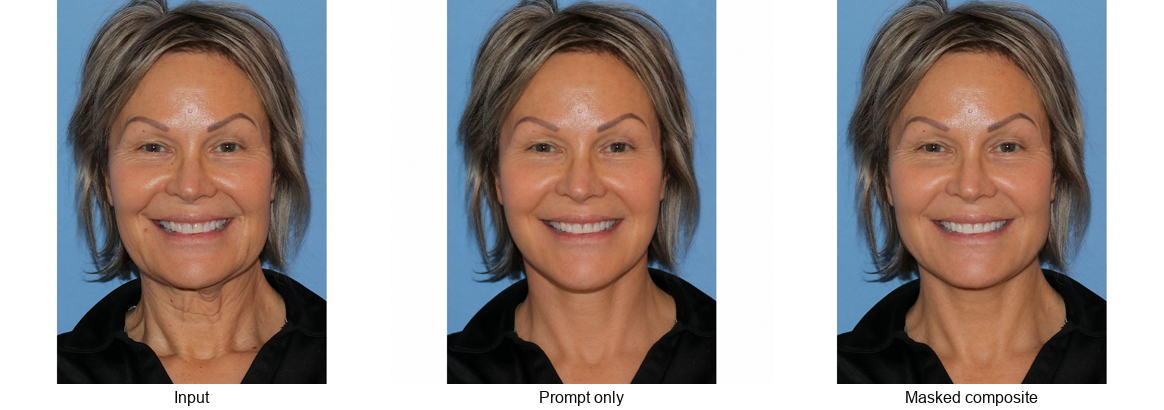
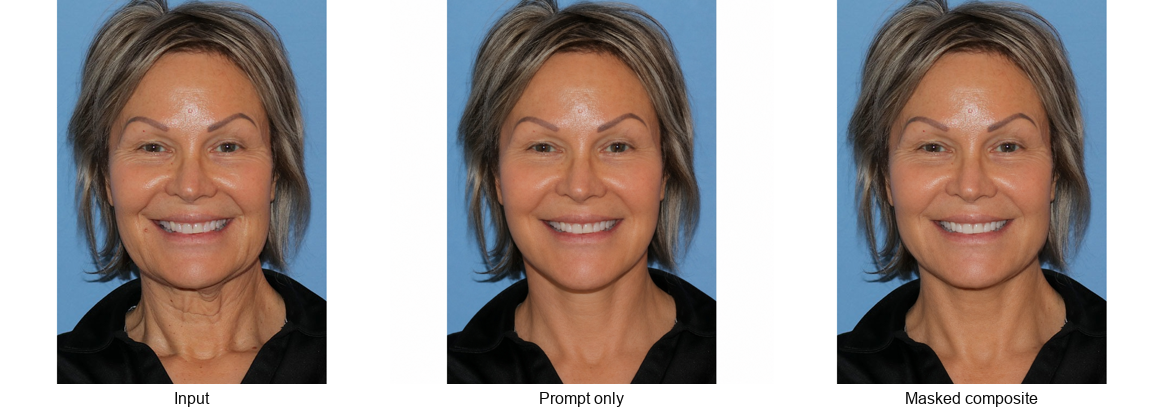
Add six-editor comparison strip, refresh qualitative figures from matrix runs
- model_strip.png: one face composited by all six editors (aggressiveness
  spectrum visible); grid rows now all matrix faces with complete panels
- caption notes the prompt-only BEFORE->AFTER watermark rewrite and the
  inpaint identity damage; larger strip labels; fix ethics dash spacing

diff --git a/scripts/make_qualitative.py b/scripts/make_qualitative.py
@@ -10,11 +10,10 @@ from pathlib import Path
 import pandas as pd
 from PIL import Image, ImageDraw, ImageFont
 
-from config import DATA_DIR, FIGURES_DIR, POC_ROOT
-from figure_stems import GRID_FACES, TEASER_FACE
+from config import DATA_DIR, FIGURES_DIR, MODEL_NAMES, POC_ROOT
+from figure_stems import GRID_FACES, STRIP_FACE, STRIP_MODELS, TEASER_FACE
 
 PANEL = 384      # px per face panel
-LABEL_H = 26
 RUNS = POC_ROOT / "outputs" / "runs"
 
 
@@ -35,18 +34,19 @@ def input_for(face_id: str, procedure: str) -> Path:
     return POC_ROOT / "data" / "faces" / procedure / f"{face_id}.png"
 
 
-def panel(img_path: Path, label: str) -> Image.Image:
+def panel(img_path: Path, label: str, label_size: int = 16) -> Image.Image:
     img = Image.open(img_path).convert("RGB")
     img.thumbnail((PANEL, PANEL))
-    canvas = Image.new("RGB", (PANEL, PANEL + LABEL_H), "white")
+    label_h = label_size + 12
+    canvas = Image.new("RGB", (PANEL, PANEL + label_h), "white")
     canvas.paste(img, ((PANEL - img.width) // 2, 0))
     draw = ImageDraw.Draw(canvas)
     try:
-        font = ImageFont.truetype("arial.ttf", 16)
+        font = ImageFont.truetype("arial.ttf", label_size)
     except OSError:
         font = ImageFont.load_default()
     w = draw.textlength(label, font=font)
-    draw.text(((PANEL - w) // 2, PANEL + 4), label, fill="#0b0b0b", font=font)
+    draw.text(((PANEL - w) // 2, PANEL + 5), label, fill="#0b0b0b", font=font)
     return canvas
 
 
@@ -93,6 +93,8 @@ def make_grid(df: pd.DataFrame) -> bool:
                 panels.append(panel(image_for(r), control.replace("_", " ").capitalize()))
         if len(panels) > 1:
             rows.append(hstack(panels))
+        else:
+            print(f"grid: {s.face_id}/{s.procedure} has no rows in the canonical set - skipped")
     if not rows:
         return False
     w = max(r.width for r in rows)
@@ -106,10 +108,30 @@ def make_grid(df: pd.DataFrame) -> bool:
     return True
 
 
+def make_model_strip(df: pd.DataFrame) -> bool:
+    """The same face composited by every editor: the model-comparison figure."""
+    s = STRIP_FACE
+    if not s.verified:
+        print(f"strip: {s.face_id} not license-verified - skipped")
+        return False
+    panels = [panel(input_for(s.face_id, s.procedure), "Input", label_size=36)]
+    for model in STRIP_MODELS:
+        g = df[(df.face_id == s.face_id) & (df.procedure == s.procedure)
+               & (df.control == "masked_composite") & (df.model == model)]
+        if g.empty or not image_for(g.iloc[0]).exists():
+            print(f"strip: no composited {model} edit for {s.face_id} - skipped")
+            continue
+        panels.append(panel(image_for(g.iloc[0]), MODEL_NAMES.get(model, model), label_size=36))
+    if len(panels) < 3:
+        return False
+    hstack(panels).save(FIGURES_DIR / "model_strip.png")
+    return True
+
+
 def main() -> None:
     FIGURES_DIR.mkdir(parents=True, exist_ok=True)
     df = load_rows()
-    made = [make_teaser(df), make_grid(df)]
+    made = [make_teaser(df), make_grid(df), make_model_strip(df)]
     if not any(made):
         print("no qualitative figures generated - real-face gate is closed "
               "(see docs/real_face_checklist.md)")

diff --git a/sections/06_results.tex b/sections/06_results.tex
@@ -53,12 +53,25 @@ and pays for them in identity (prompt-only median
 at which the output is effectively a different person). The Nano Banana models
 occupy the opposite end, holding identity at \MedIdentityNanoBanana{} while
 making the gentlest edits (median $\Delta E_{\mathrm{tgt}}$ \MedTgtNanoBanana).
-GPT Image~2 and Seedream~5.0 fall between. Following
-Sec.~\ref{sec:protocol}, the model-level number is the prompt-only median of
-\MedIdentityPromptOnly{}; composited edits score \MedIdentityComposite{}, but
-part of that is copied pixels, so we do not read the difference as a model
-improvement. Fig.~\ref{fig:boxes} breaks identity out by model; the ordering
-tracks each model's editing aggressiveness rather than output quality.
+GPT Image~2 and Seedream~5.0 fall between. The spectrum is visible to the naked
+eye in Fig.~\ref{fig:modelstrip}, which composites the same face through all six
+editors. Following Sec.~\ref{sec:protocol}, the model-level number is the
+prompt-only median of \MedIdentityPromptOnly{}; composited edits score
+\MedIdentityComposite{}, but part of that is copied pixels, so we do not read
+the difference as a model improvement. Fig.~\ref{fig:boxes} breaks identity out
+by model; the ordering tracks each model's editing aggressiveness rather than
+output quality.
+
+\begin{figure*}[t]
+  \centering
+  \includegraphics[width=0.99\textwidth]{model_strip.png}
+  \caption{One deep-plane-facelift face composited through every editor in the
+  study. The aggressiveness spectrum of Sec.~\ref{sec:results}-B is visible
+  directly: the Nano Banana models barely operate, GPT Image~2 and Seedream
+  reposition the jawline and neck, and FLUX.2 alters enough of the face to
+  strain identity even inside the mask.}
+  \label{fig:modelstrip}
+\end{figure*}
 
 \begin{figure*}[t]
   \centering
@@ -136,7 +149,10 @@ no identity scores; they are counted, not hidden, in Table~\ref{tab:main}.
   \centering
   \includegraphics[width=0.88\textwidth]{qualitative_grid.png}
   \caption{Qualitative results (top to bottom: two deep-plane-facelift faces, one
-  frontal rhinoplasty face). Prompt-only edits alter the whole image; composited
-  edits are pixel-identical to the input outside the region.}
+  frontal rhinoplasty face). Prompt-only edits alter the whole image; in the
+  bottom row the prompt-only editor even rewrote the source photograph's
+  ``BEFORE'' watermark to ``AFTER.'' Composited edits are pixel-identical to the
+  input outside the region. The top row's inpaint panel shows the identity
+  damage quantified in Sec.~\ref{sec:inpaint}.}
   \label{fig:grid}
 \end{figure*}

diff --git a/scripts/figure_stems.py b/scripts/figure_stems.py
@@ -20,11 +20,19 @@ class Stem:
 # Teaser (Fig. 1): same face under prompt_only and masked_composite, gpt_image_2.
 TEASER_FACE = Stem("real_01", "deep_plane_facelift", verified=True)
 
-# Qualitative grid (Fig. 5): one row per procedure/model contrast.
+# Qualitative grid: one row per procedure/control contrast. Faces must be in the
+# registered matrix runs (facelift real_01-08; rhino real_01-04 + *_front).
 GRID_FACES = [
     Stem("real_07", "deep_plane_facelift", verified=True),
-    Stem("real_09", "deep_plane_facelift", verified=True),
+    Stem("real_06", "deep_plane_facelift", verified=True),
     Stem("real_06_front", "rhinoplasty", verified=True),
+]
+
+# Model-comparison strip: the same face composited by all six editors.
+STRIP_FACE = Stem("real_02", "deep_plane_facelift", verified=True)
+STRIP_MODELS = [
+    "gpt_image_2", "gpt_image_2_low", "nano_banana_pro",
+    "nano_banana_2", "seedream_5_0", "flux_2_pro",
 ]
 
 # Method figure (Fig. 2): the chained run's stage1 intermediates (real_12).

diff --git a/sections/08_ethics.tex b/sections/08_ethics.tex
@@ -7,8 +7,9 @@ private or non-consented patient data was used at any stage, and images sent to
 hosted endpoints were transmitted inline without server-side retention options
 enabled. The figures reproduce faces under that license.
 
-\textbf{No cherry-picking.} Every experiment runs its full face--model--procedure
---control matrix under a fixed seed into an immutable, git-stamped run directory,
+\textbf{No cherry-picking.} Every experiment runs its full face $\times$ model
+$\times$ procedure $\times$ control matrix under a fixed seed into an immutable,
+git-stamped run directory,
 and the scoring gallery renders every cell. The examples in
 Figs.~\ref{fig:teaser} and \ref{fig:grid} were chosen for print legibility, but
 the statistics in Table~\ref{tab:main} include every scored edit, failures and